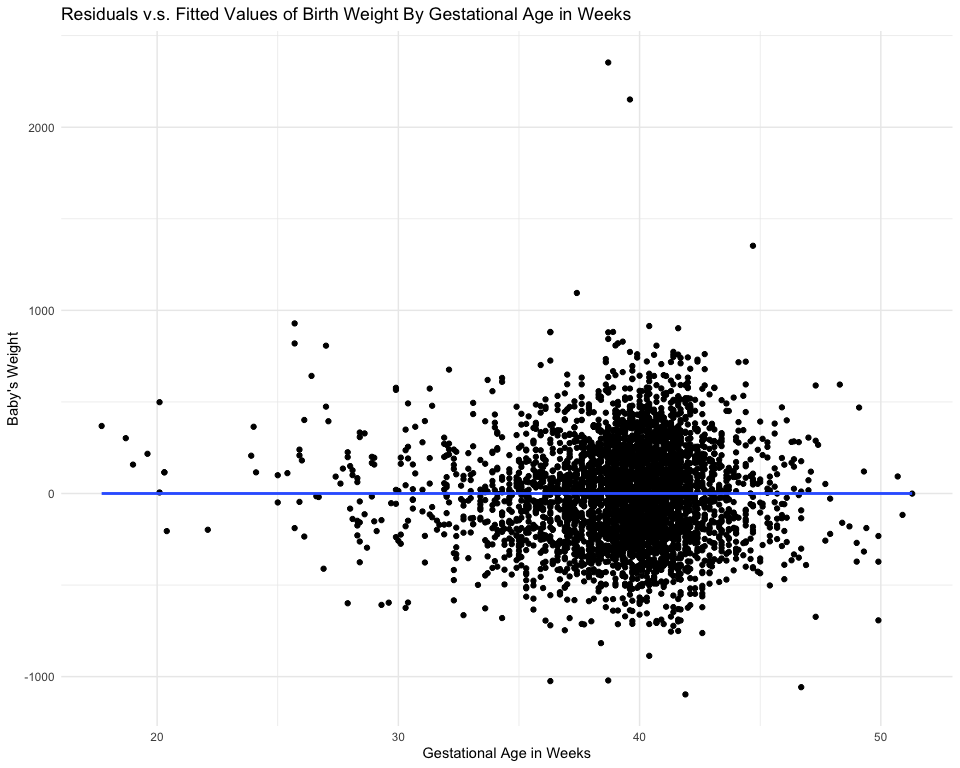
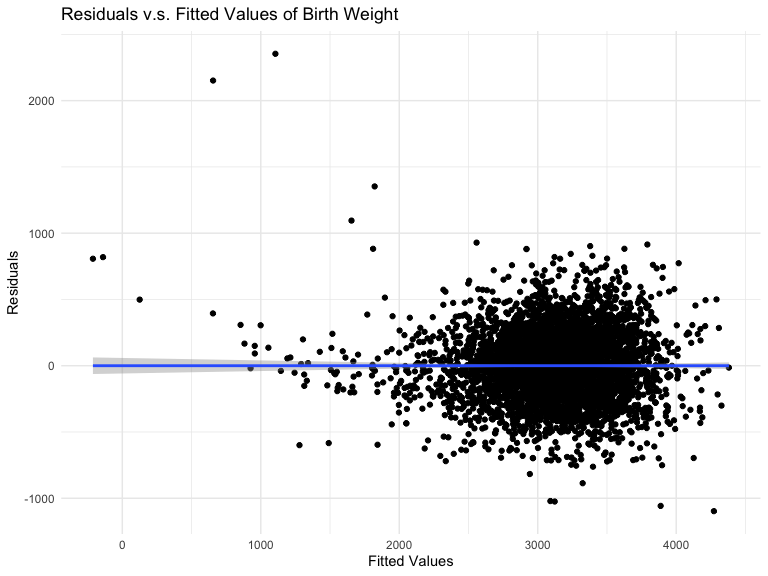
prob 2

diff --git a/p8105_hw6_sz3029.md b/p8105_hw6_sz3029.md
@@ -68,11 +68,11 @@ They are 19 variables in total. We want to select the most important
 variables that affect baby’s birth weight to build the regression model.
 We will use a data-driven model building process, backwards elimination.
 
-1.  Select variables using backwards elimination
+1.  Select variables using backwards elimination, using AIC criteria
 
 ``` r
 mult.fit = lm(bwt ~ ., data = birthweight_df)
-model.best = step(mult.fit, direction='backward')
+model.best = step(mult.fit, direction = 'backward')
 ```
 
     ## Start:  AIC=48717.83
@@ -219,7 +219,9 @@ model.best = step(mult.fit, direction='backward')
     ## - blength  1 102191779 423178191 49903
     ## - bhead    1 106779754 427766166 49950
 
-The “best” model proposed by backward selection is:
+The predictors of the “best” model proposed by backward selection is
+includes `babysex`, `bhead`, `blength`, `delwt`, `fincome`, `gaweeks`,
+`mheight`, `mrace`, `parity`, `ppwt`, and `smoken`:
 
 ``` r
 model.best$coefficients %>% knitr::kable(digits = 3, col.names = c("Coefficient"))
@@ -277,6 +279,7 @@ model_1 %>%
 ### Diagnostics
 
 ``` r
+# Residuals
 modelr::add_residuals(birthweight_df, model_1) %>% head(10) %>% knitr::kable(digits = 3)
 ```
 
@@ -294,6 +297,7 @@ modelr::add_residuals(birthweight_df, model_1) %>% head(10) %>% knitr::kable(dig
 | male    |    33 |      50 | 3459 |   169 |      75 | black |    40.7 | absent  |       12 |      64 |     19 | black |      0 |       0 |       0 | 24.941 |  145 |      4 |     24 |  429.228 |
 
 ``` r
+# Predictions
 modelr::add_predictions(birthweight_df, model_1) %>% head(10) %>% knitr::kable(digits = 3)
 ```
 
@@ -315,17 +319,20 @@ Show an example model residuals against fitted values
 ``` r
 birthweight_df %>% 
   modelr::add_residuals(model_1) %>% 
-  ggplot(aes(x = gaweeks, y = resid)) + 
+  modelr::add_predictions(model_1) %>% 
+  ggplot(aes(x = pred, y = resid)) + 
   geom_point() +
-  geom_smooth(method = "lm", se = FALSE) +
+  geom_smooth(method = "lm", se = TRUE) +
   labs(
-    title = "Residuals v.s. Fitted Values of Birth Weight By Gestational Age in Weeks",
-    x = 'Gestational Age in Weeks',
-    y = 'Baby\'s Weight'
+    title = "Residuals v.s. Fitted Values of Birth Weight",
+    x = 'Fitted Values',
+    y = 'Residuals'
   )
 ```
 
 <img src="p8105_hw6_sz3029_files/figure-gfm/plot_ex-1.png" width="90%" />
+
+The residuals follows a normal distribution of a mean of 0.
 
 ## Compare the model to two others
 
@@ -410,30 +417,213 @@ cv_df =
     rmse_mod2 = map2_dbl(mod_2, test, ~modelr::rmse(model = .x, data = .y)),
     rmse_mod3 = map2_dbl(mod_3, test, ~modelr::rmse(model = .x, data = .y)))
 
-cv_df %>% select(.id, rmse_mod1:rmse_mod3) %>% knitr::kable(digits = 3)
+cv_df %>% select(.id, rmse_mod1:rmse_mod3) %>% knitr::kable(digits = 3, 
+                                                            caption = "RMSE Table for the 3 models",
+                                                            col.names = c("Sample ID", "RMSE of Model 1", "RMSE of Model 2", "RMSE of Model 3"))
 ```
 
-| .id | rmse\_mod1 | rmse\_mod2 | rmse\_mod3 |
-|:----|-----------:|-----------:|-----------:|
-| 01  |    279.580 |    359.647 |    302.298 |
-| 02  |    264.188 |    322.284 |    279.502 |
-| 03  |    263.552 |    307.308 |    278.862 |
-| 04  |    283.968 |    337.491 |    298.365 |
-| 05  |    285.464 |    367.403 |    303.174 |
-| 06  |    269.061 |    314.193 |    281.674 |
-| 07  |    275.295 |    356.660 |    289.801 |
-| 08  |    283.202 |    345.988 |    301.289 |
-| 09  |    268.870 |    327.404 |    287.406 |
-| 10  |    270.915 |    338.322 |    291.574 |
-| 11  |    262.074 |    312.475 |    276.599 |
-| 12  |    267.941 |    331.088 |    283.967 |
-| 13  |    270.828 |    323.682 |    283.389 |
-| 14  |    276.905 |    335.717 |    293.039 |
-| 15  |    267.621 |    323.158 |    283.313 |
-| 16  |    283.199 |    332.946 |    299.477 |
-| 17  |    284.599 |    361.268 |    303.140 |
-| 18  |    267.999 |    327.564 |    280.940 |
-| 19  |    279.361 |    337.672 |    290.738 |
-| 20  |    265.056 |    314.297 |    279.443 |
+| Sample ID | RMSE of Model 1 | RMSE of Model 2 | RMSE of Model 3 |
+|:----------|----------------:|----------------:|----------------:|
+| 01        |         279.580 |         359.647 |         302.298 |
+| 02        |         264.188 |         322.284 |         279.502 |
+| 03        |         263.552 |         307.308 |         278.862 |
+| 04        |         283.968 |         337.491 |         298.365 |
+| 05        |         285.464 |         367.403 |         303.174 |
+| 06        |         269.061 |         314.193 |         281.674 |
+| 07        |         275.295 |         356.660 |         289.801 |
+| 08        |         283.202 |         345.988 |         301.289 |
+| 09        |         268.870 |         327.404 |         287.406 |
+| 10        |         270.915 |         338.322 |         291.574 |
+| 11        |         262.074 |         312.475 |         276.599 |
+| 12        |         267.941 |         331.088 |         283.967 |
+| 13        |         270.828 |         323.682 |         283.389 |
+| 14        |         276.905 |         335.717 |         293.039 |
+| 15        |         267.621 |         323.158 |         283.313 |
+| 16        |         283.199 |         332.946 |         299.477 |
+| 17        |         284.599 |         361.268 |         303.140 |
+| 18        |         267.999 |         327.564 |         280.940 |
+| 19        |         279.361 |         337.672 |         290.738 |
+| 20        |         265.056 |         314.297 |         279.443 |
+
+RMSE Table for the 3 models
+
+From the chart above, we see that the RMSE of model 1 &lt; RMSE of model
+3 &lt; RMSE of model 2. The violin plots below also show the same
+pattern:
+
+``` r
+cv_df %>% 
+  select(starts_with("rmse")) %>% 
+  pivot_longer(
+    everything(),
+    names_to = "model", 
+    values_to = "rmse",
+    names_prefix = "rmse_") %>% 
+  mutate(model = fct_inorder(model)) %>% 
+  ggplot(aes(x = model, y = rmse)) + geom_violin() +
+  labs(
+    title = "RMSE for each models",
+    x = 'Model',
+    y = 'RMSE'
+  )
+```
+
+<img src="p8105_hw6_sz3029_files/figure-gfm/unnamed-chunk-3-1.png" width="90%" />
 
 ## Problem 2
+
+### Load the weather dataset
+
+``` r
+weather_df = 
+  rnoaa::meteo_pull_monitors(
+    c("USW00094728"),
+    var = c("PRCP", "TMIN", "TMAX"), 
+    date_min = "2017-01-01",
+    date_max = "2017-12-31") %>%
+  mutate(
+    name = recode(id, USW00094728 = "CentralPark_NY"),
+    tmin = tmin / 10,
+    tmax = tmax / 10) %>%
+  select(name, id, everything())
+
+weather_df
+```
+
+    ## # A tibble: 365 × 6
+    ##    name           id          date        prcp  tmax  tmin
+    ##    <chr>          <chr>       <date>     <dbl> <dbl> <dbl>
+    ##  1 CentralPark_NY USW00094728 2017-01-01     0   8.9   4.4
+    ##  2 CentralPark_NY USW00094728 2017-01-02    53   5     2.8
+    ##  3 CentralPark_NY USW00094728 2017-01-03   147   6.1   3.9
+    ##  4 CentralPark_NY USW00094728 2017-01-04     0  11.1   1.1
+    ##  5 CentralPark_NY USW00094728 2017-01-05     0   1.1  -2.7
+    ##  6 CentralPark_NY USW00094728 2017-01-06    13   0.6  -3.8
+    ##  7 CentralPark_NY USW00094728 2017-01-07    81  -3.2  -6.6
+    ##  8 CentralPark_NY USW00094728 2017-01-08     0  -3.8  -8.8
+    ##  9 CentralPark_NY USW00094728 2017-01-09     0  -4.9  -9.9
+    ## 10 CentralPark_NY USW00094728 2017-01-10     0   7.8  -6  
+    ## # … with 355 more rows
+
+### Parameter Inference via Bootstrapping
+
+We’ll focus on a simple linear regression with `tmax` as the response
+and `tmin` as the predictor, and are interested in the distribution of
+two quantities estimated from these data:
+
+-   *r̂*<sup>2</sup>
+
+-   log(beta\_0 \* beta\_1)
+
+1.  Construct 5000 bootstrap samples, and produce estimates of these two
+    quantities
+
+``` r
+boot_straps <-
+  weather_df %>% 
+  modelr::bootstrap(n = 5000) %>% 
+  mutate(
+    models = map(strap, ~lm(tmax ~ tmin, data = .x) ),
+    results = map(models, broom::tidy),
+    summary = map(models, summary),
+    r_squared = map_dbl(summary, "r.squared")) %>% 
+  select(-strap, -models, -summary) %>% 
+  unnest(results) %>% 
+  select(.id, term, r_squared, estimate) %>%
+  pivot_wider(
+    names_from = "term",
+    values_from = "estimate",
+    names_prefix = "estimate_"
+  ) %>% 
+  janitor::clean_names() %>%
+  mutate(
+    log_beta_0_beta_1 = log(estimate_intercept*estimate_tmin)
+  ) %>%
+  select(id, r_squared, log_beta_0_beta_1)
+  
+boot_straps
+```
+
+    ## # A tibble: 5,000 × 3
+    ##    id    r_squared log_beta_0_beta_1
+    ##    <chr>     <dbl>             <dbl>
+    ##  1 0001      0.912              2.02
+    ##  2 0002      0.917              2.03
+    ##  3 0003      0.918              2.01
+    ##  4 0004      0.897              2.05
+    ##  5 0005      0.924              2.02
+    ##  6 0006      0.917              2.01
+    ##  7 0007      0.909              2.02
+    ##  8 0008      0.923              2.01
+    ##  9 0009      0.902              2.03
+    ## 10 0010      0.921              2.02
+    ## # … with 4,990 more rows
+
+2.  Plot the distribution of the estimates
+
+``` r
+# for r-squared estimate
+boot_straps %>%
+  ggplot(aes(x = r_squared)) +
+  geom_density() +
+  labs(
+    title = "Density Plot for R-Square Estimation",
+    x = 'R-Square Estimates',
+    y = 'Density'
+  )
+```
+
+<img src="p8105_hw6_sz3029_files/figure-gfm/unnamed-chunk-5-1.png" width="90%" />
+
+``` r
+boot_straps %>%
+  ggplot(aes(x = log_beta_0_beta_1)) +
+  geom_density() +
+  labs(
+    title = "Density Plot for log(beta_0 * beta_1) Estimation",
+    x = 'log(beta_0 * beta_1) Estimates',
+    y = 'Density'
+  )
+```
+
+<img src="p8105_hw6_sz3029_files/figure-gfm/unnamed-chunk-5-2.png" width="90%" />
+
+**Description**
+
+For *r̂*<sup>2</sup> :
+
+This distribution is a little bit left-skewed with a mean of 0.91, with
+a bit of a “shoulder” on the left end, features that may be related to
+the frequency with which some small outliers are included in the
+bootstrap sample.
+
+For log(beta\_0 \* beta\_1):
+
+This distribution has a normal distribution shape around mean of 2.02,
+with a bit of a “shoulder” on the right end, features that may be
+related to the frequency with which some large outliers are included in
+the bootstrap sample.
+
+3.  Identify the 2.5% and 97.5% quantiles to provide a 95% confidence
+    interval
+
+``` r
+boot_straps %>%
+  summarize(
+    ci_lower_r_sq = quantile(r_squared, 0.025), 
+    ci_upper_r_sq = quantile(r_squared, 0.975),
+    ci_lower_log = quantile(log_beta_0_beta_1, 0.025), 
+    ci_upper_log = quantile(log_beta_0_beta_1, 0.975)) %>%
+  knitr::kable(digits = 3, col.names = c("95% CI lower bound for R squared est.",
+                                         "95% CI upper bound for R squared est.",
+                                         "95% CI lower bound for log(beta_0 * beta_1) est.",
+                                         "95% CI upper bound for log(beta_0 * beta_1) est."))
+```
+
+| 95% CI lower bound for R squared est. | 95% CI upper bound for R squared est. | 95% CI lower bound for log(beta\_0 \* beta\_1) est. | 95% CI upper bound for log(beta\_0 \* beta\_1) est. |
+|--------------------------------------:|--------------------------------------:|----------------------------------------------------:|----------------------------------------------------:|
+|                                 0.894 |                                 0.928 |                                               1.965 |                                               2.059 |
+
+The 95% confidence interval for *r̂*<sup>2</sup> is (0.894, 0.927), and
+the 95% confidence interval for log(beta\_0 \* beta\_1) is
+(1.966, 2.059).
